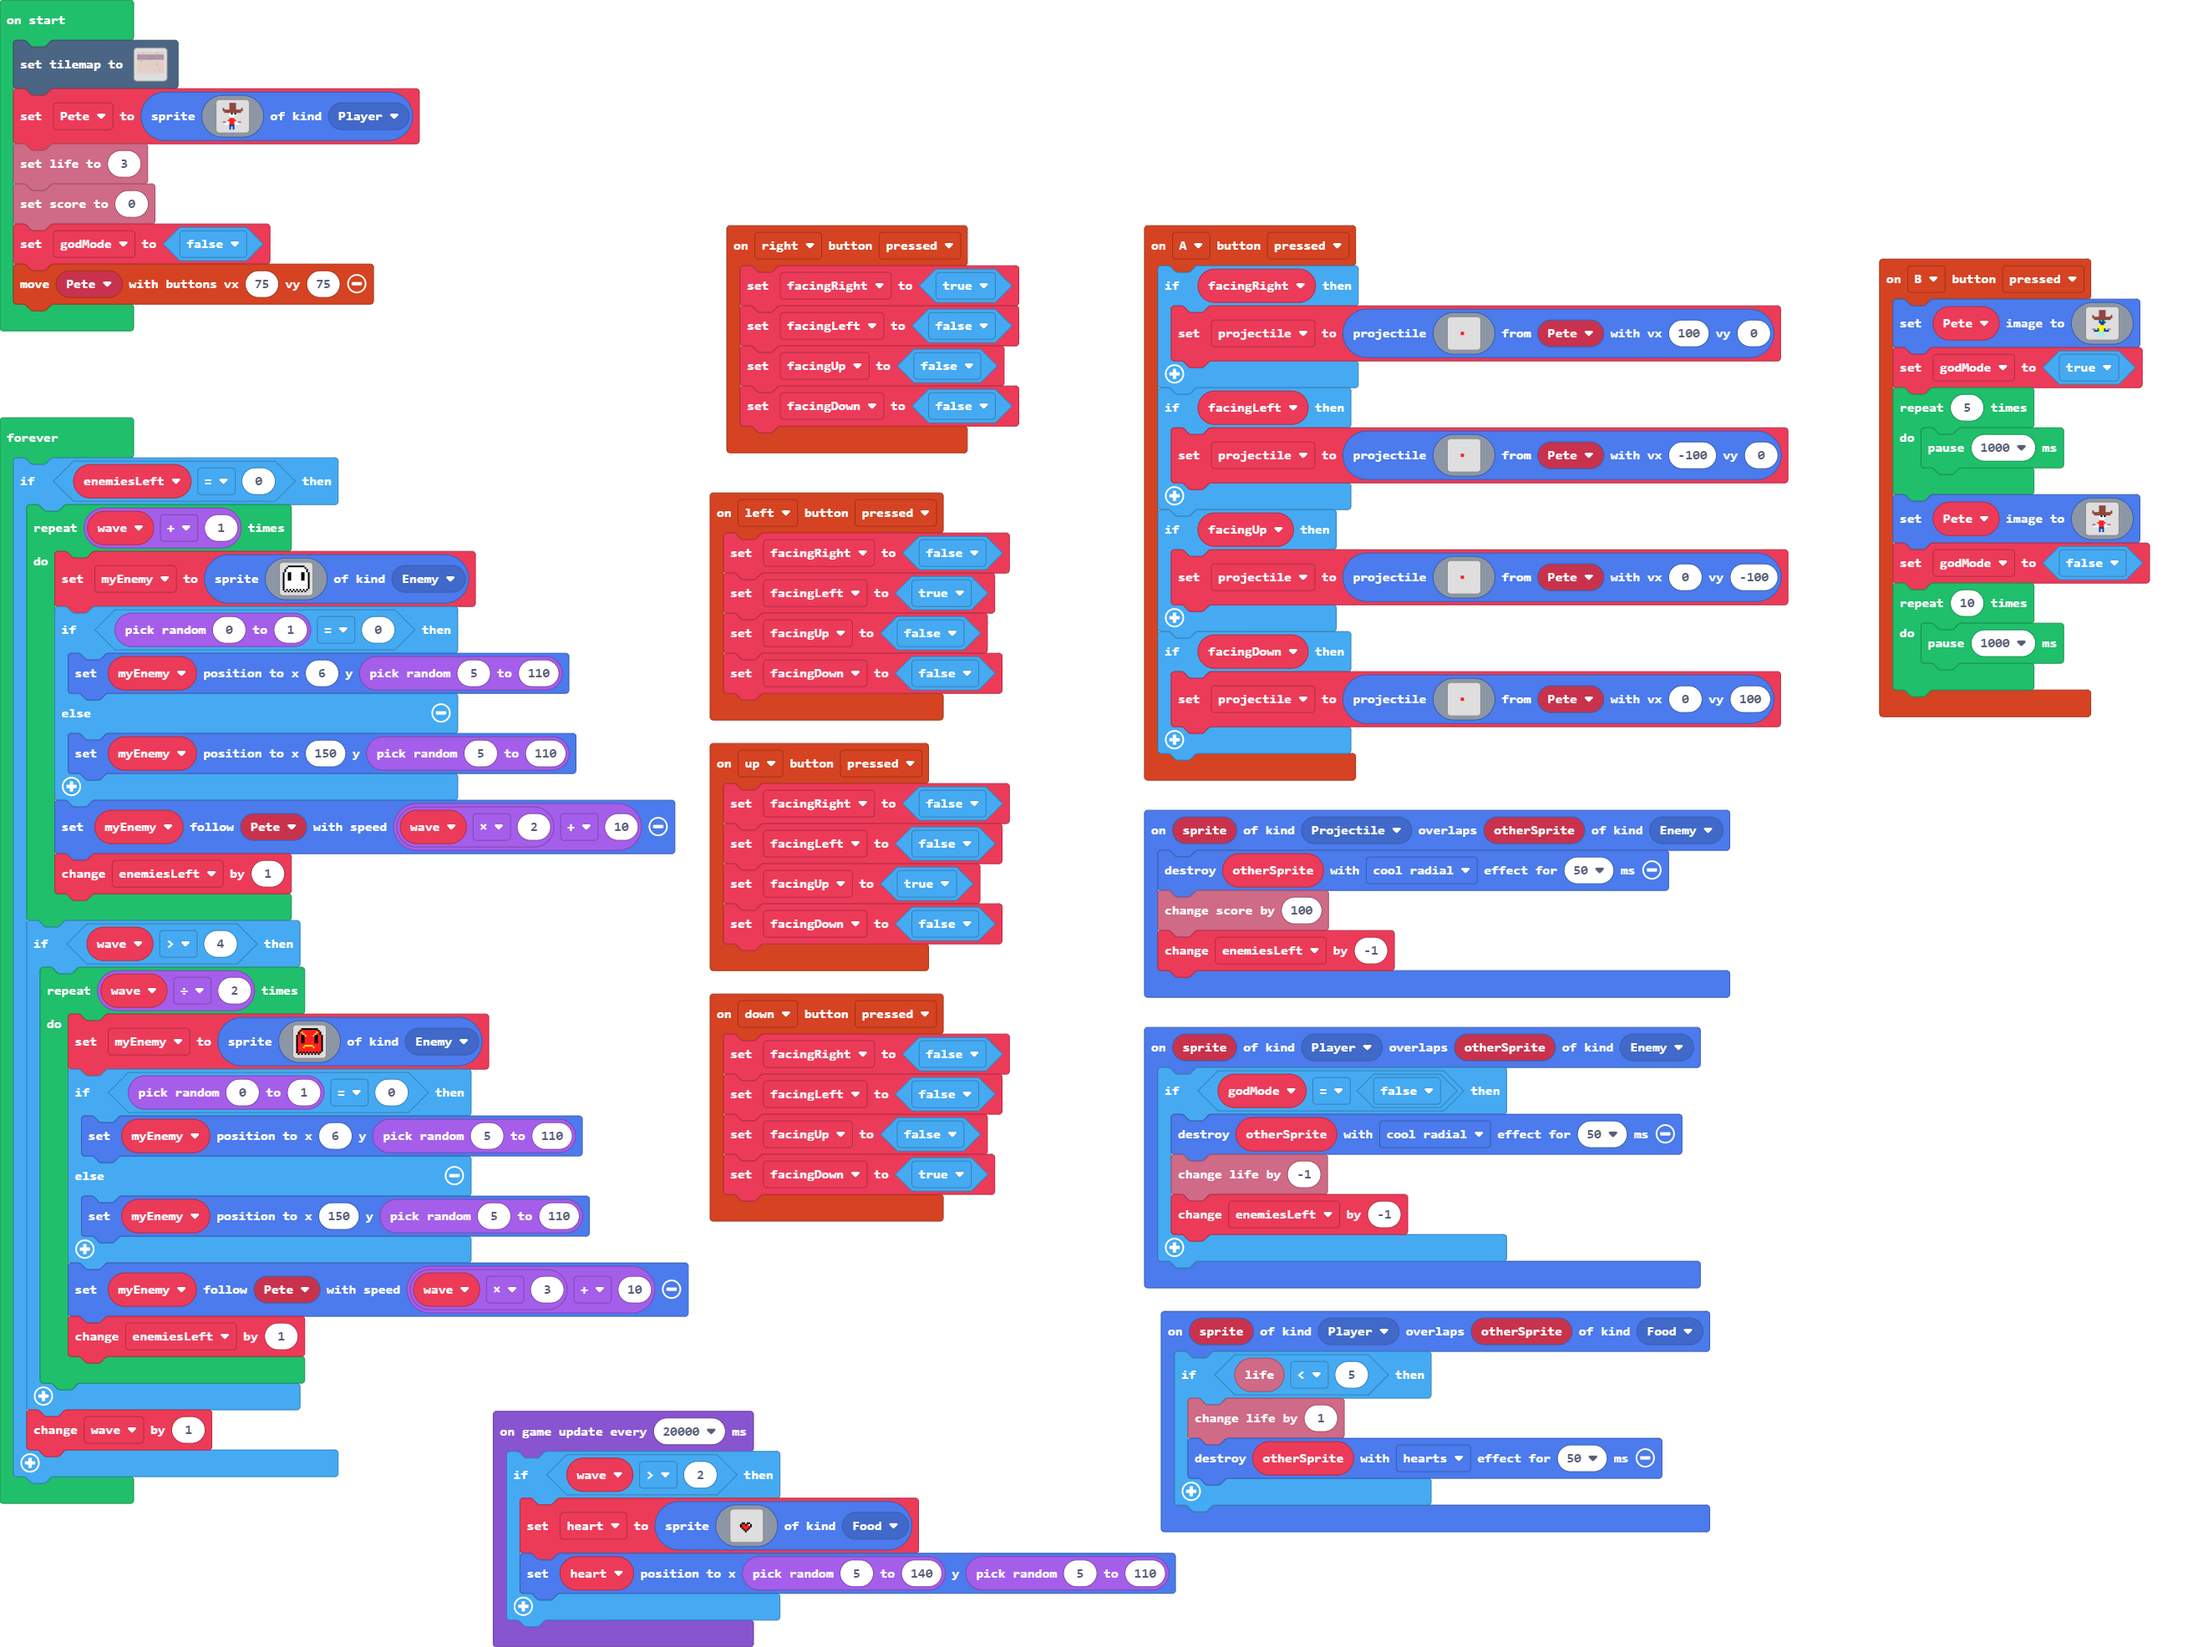
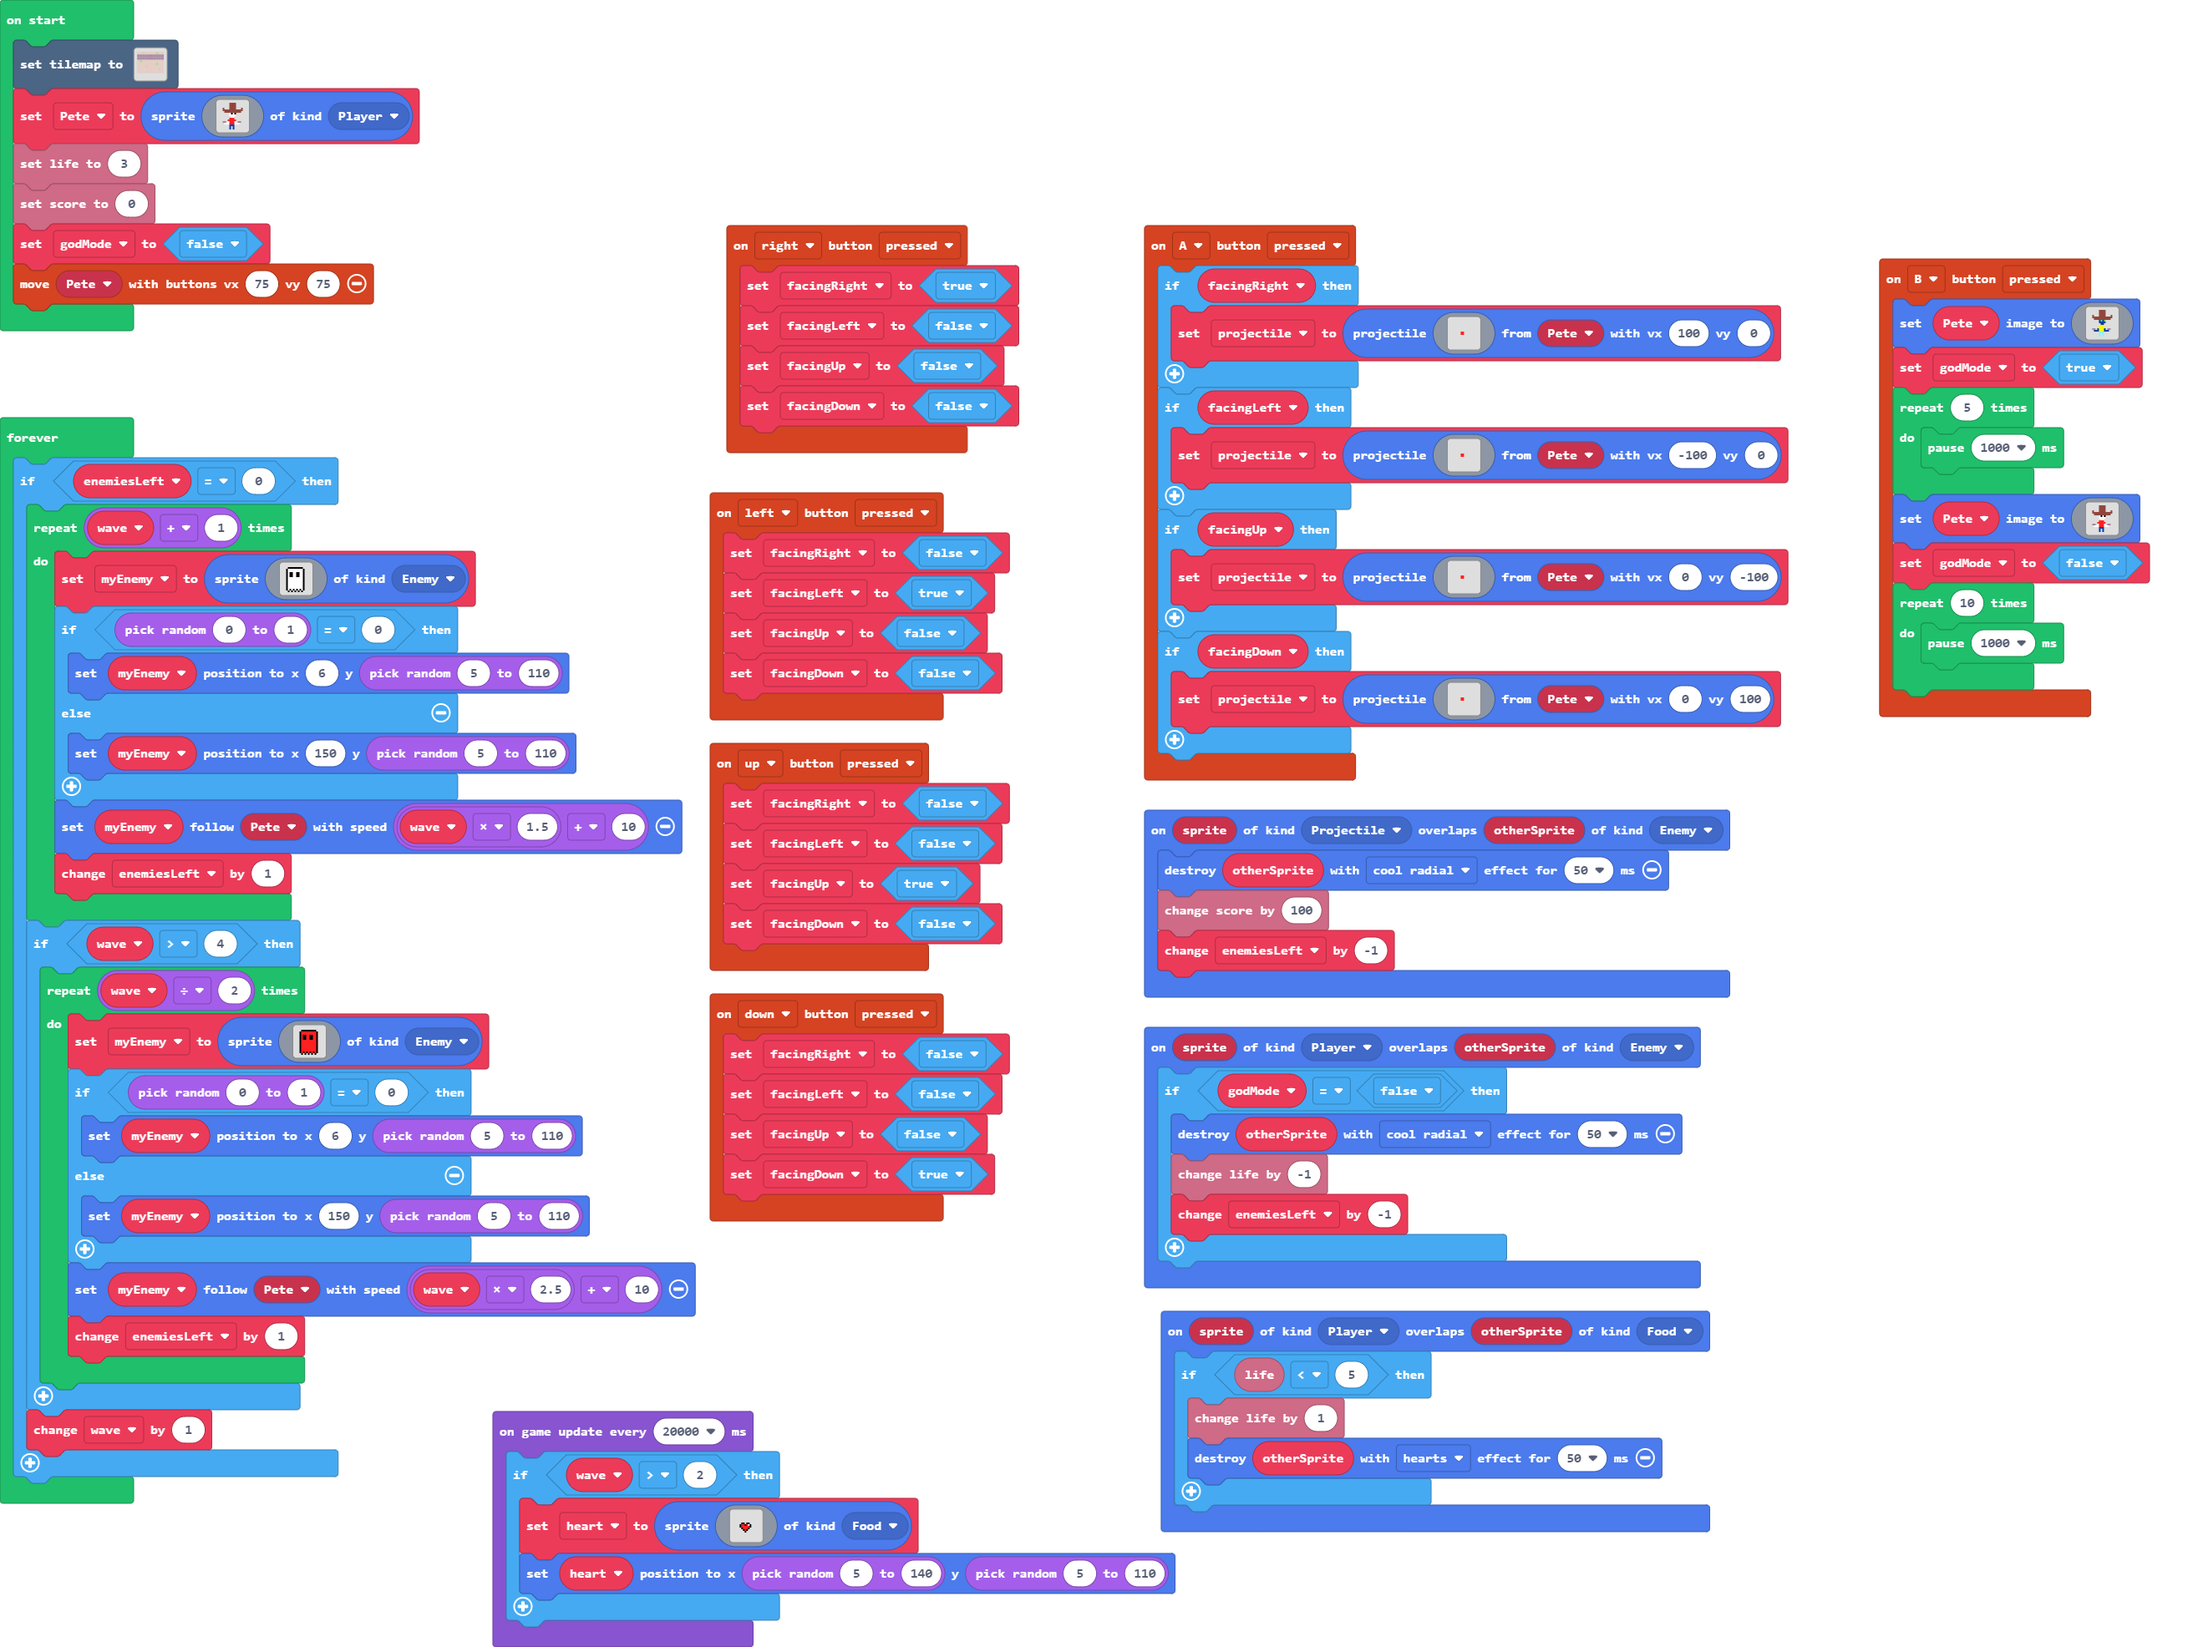
changed assets slightly

diff --git a/images.g.ts b/images.g.ts
@@ -41,25 +41,6 @@ namespace myImages {
 . . . . . . 8 . 8 . . . . . . . 
 . . . . . . 8 . 8 . . . . . . . 
 `;
-            case "image2":
-            case "ghost":return img`
-. . . f f f f f f f f f f . . . 
-. . f 1 1 1 1 1 1 1 1 1 1 f . . 
-. f 1 1 1 1 1 1 1 1 1 1 1 1 f . 
-. f 1 1 1 1 1 1 1 1 1 1 1 1 f . 
-f 1 1 f f 1 1 1 1 1 1 f f 1 1 f 
-f 1 1 f f 1 1 1 1 1 1 f f 1 1 f 
-f 1 1 f f 1 1 1 1 1 1 f f 1 1 f 
-f 1 1 f f 1 1 1 1 1 1 f f 1 1 f 
-f 1 1 f f 1 1 1 1 1 1 f f 1 1 f 
-f 1 1 1 1 1 1 1 1 1 1 1 1 1 1 f 
-f 1 1 1 1 1 1 1 1 1 1 1 1 1 1 f 
-f 1 1 1 1 1 1 1 1 1 1 1 1 1 1 f 
-f 1 1 1 1 1 1 1 1 1 1 1 1 1 1 f 
-f 1 1 1 1 1 1 1 1 1 1 1 1 1 1 f 
-f 1 f 1 f 1 f 1 f 1 f 1 f 1 f . 
-. f . f . f . f . f . f . f . . 
-`;
             case "image4":
             case "myImage0":return img`
 . . . f f f f f f f f f f . . . 
@@ -116,6 +97,44 @@ f 2 f 2 f 2 f 2 f 2 f 2 f 2 f .
 . . . . . . . . . . . . . . . . 
 . . . . . . . . . . . . . . . . 
 . . . . . . . . . . . . . . . . 
+`;
+            case "image2":
+            case "ghost":return img`
+. . . . . . . . . . . . . . . . 
+. . . f f f f f f f f f . . . . 
+. . f 1 1 1 1 1 1 1 1 1 f . . . 
+. . f 1 1 1 1 1 1 1 1 1 f . . . 
+. . f 1 f f 1 1 f f 1 1 f . . . 
+. . f 1 f f 1 1 f f 1 1 f . . . 
+. . f 1 f f 1 1 f f 1 1 f . . . 
+. . f 1 1 1 1 1 1 1 1 1 f . . . 
+. . f 1 1 1 1 1 1 1 1 1 f . . . 
+. . f 1 1 1 1 1 1 1 1 1 f . . . 
+. . f 1 1 1 1 1 1 1 1 1 f . . . 
+. . f 1 1 1 1 1 1 1 1 1 f . . . 
+. . f 1 1 1 1 1 1 1 1 1 f . . . 
+. . f 1 1 1 1 1 1 1 1 1 f . . . 
+. . f 1 f 1 f 1 f 1 f 1 f . . . 
+. . . f . f . f . f . f . . . . 
+`;
+            case "image7":
+            case "redGhost2":return img`
+. . . . . . . . . . . . . . . . 
+. . . f f f f f f f f f . . . . 
+. . f 2 2 2 2 2 2 2 2 2 f . . . 
+. . f 2 2 2 2 2 2 2 2 2 f . . . 
+. . f 2 f f 2 2 f f 2 2 f . . . 
+. . f 2 f f 2 2 f f 2 2 f . . . 
+. . f 2 f f 2 2 f f 2 2 f . . . 
+. . f 2 2 2 2 2 2 2 2 2 f . . . 
+. . f 2 2 2 2 2 2 2 2 2 f . . . 
+. . f 2 2 2 2 2 2 2 2 2 f . . . 
+. . f 2 2 2 2 2 2 2 2 2 f . . . 
+. . f 2 2 2 2 2 2 2 2 2 f . . . 
+. . f 2 2 2 2 2 2 2 2 2 f . . . 
+. . f 2 2 2 2 2 2 2 2 2 f . . . 
+. . f 2 f 2 f 2 f 2 f 2 f . . . 
+. . . f . f . f . f . f . . . . 
 `;
         }
         return null;

diff --git a/tilemap.g.ts b/tilemap.g.ts
@@ -44,6 +44,25 @@ namespace myTiles {
 2 2 2 2 2 2 2 2 2 2 
 . . . . . . . . . . 
 `, [myTiles.transparency16,sprites.vehicle.roadHorizontal,myTiles.tile3,myTiles.tile2,myTiles.tile4,myTiles.tile5], TileScale.Sixteen);
+            case "level3":
+            case "level3":return tiles.createTilemap(hex`1000100000000000000000000000000000000000000000000000000000000000000000000000000000000000000000000000000000000000000000000000000000000000000000000000000000000000000000000000000000000000000000000000000000000000000000000000000000000000000000000000000000000000000000000000000000000000000000000000000000000000000000000000000000000000000000000000000000000000000000000000000000000000000000000000000000000000000000000000000000000000000000000000000000000000000000000000000000000000000000000000000000000000000000000000000000000000`, img`
+. . . . . . . . . . . . . . . . 
+. . . . . . . . . . . . . . . . 
+. . . . . . . . . . . . . . . . 
+. . . . . . . . . . . . . . . . 
+. . . . . . . . . . . . . . . . 
+. . . . . . . . . . . . . . . . 
+. . . . . . . . . . . . . . . . 
+. . . . . . . . . . . . . . . . 
+. . . . . . . . . . . . . . . . 
+. . . . . . . . . . . . . . . . 
+. . . . . . . . . . . . . . . . 
+. . . . . . . . . . . . . . . . 
+. . . . . . . . . . . . . . . . 
+. . . . . . . . . . . . . . . . 
+. . . . . . . . . . . . . . . . 
+. . . . . . . . . . . . . . . . 
+`, [myTiles.transparency16], TileScale.Sixteen);
         }
         return null;
     })

diff --git a/main.ts b/main.ts
@@ -92,18 +92,18 @@ forever(function () {
             } else {
                 myEnemy.setPosition(150, randint(5, 110))
             }
-            myEnemy.follow(Pete, wave * 2 + 10)
+            myEnemy.follow(Pete, wave * 1.5 + 10)
             enemiesLeft += 1
         }
         if (wave > 4) {
             for (let index = 0; index < wave / 2; index++) {
-                myEnemy = sprites.create(assets.image`myImage0`, SpriteKind.Enemy)
+                myEnemy = sprites.create(assets.image`redGhost2`, SpriteKind.Enemy)
                 if (randint(0, 1) == 0) {
                     myEnemy.setPosition(6, randint(5, 110))
                 } else {
                     myEnemy.setPosition(150, randint(5, 110))
                 }
-                myEnemy.follow(Pete, wave * 3 + 10)
+                myEnemy.follow(Pete, wave * 2.5 + 10)
                 enemiesLeft += 1
             }
         }
